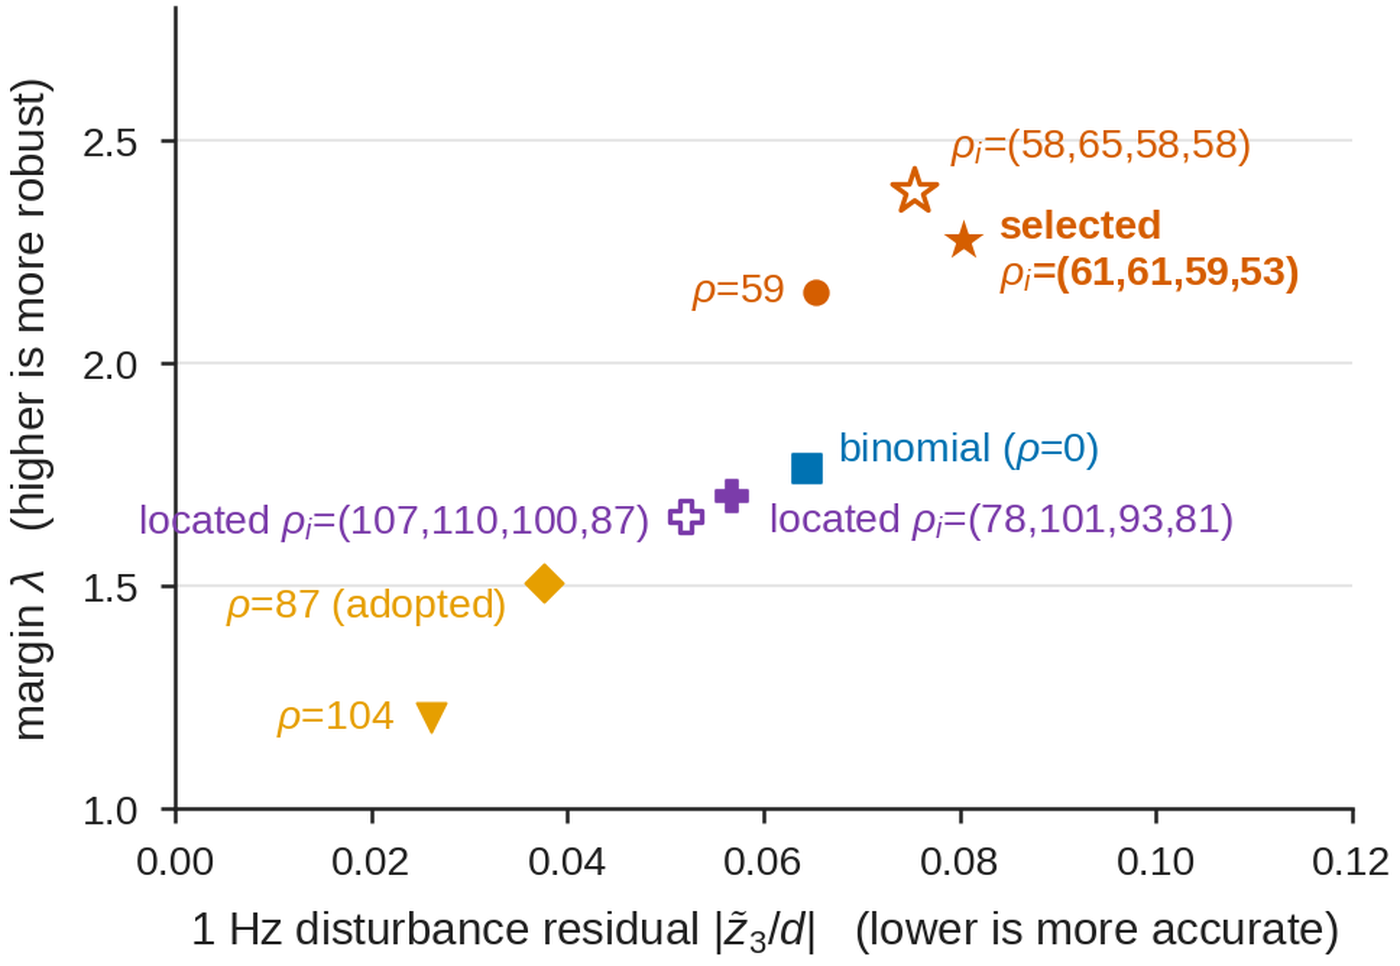
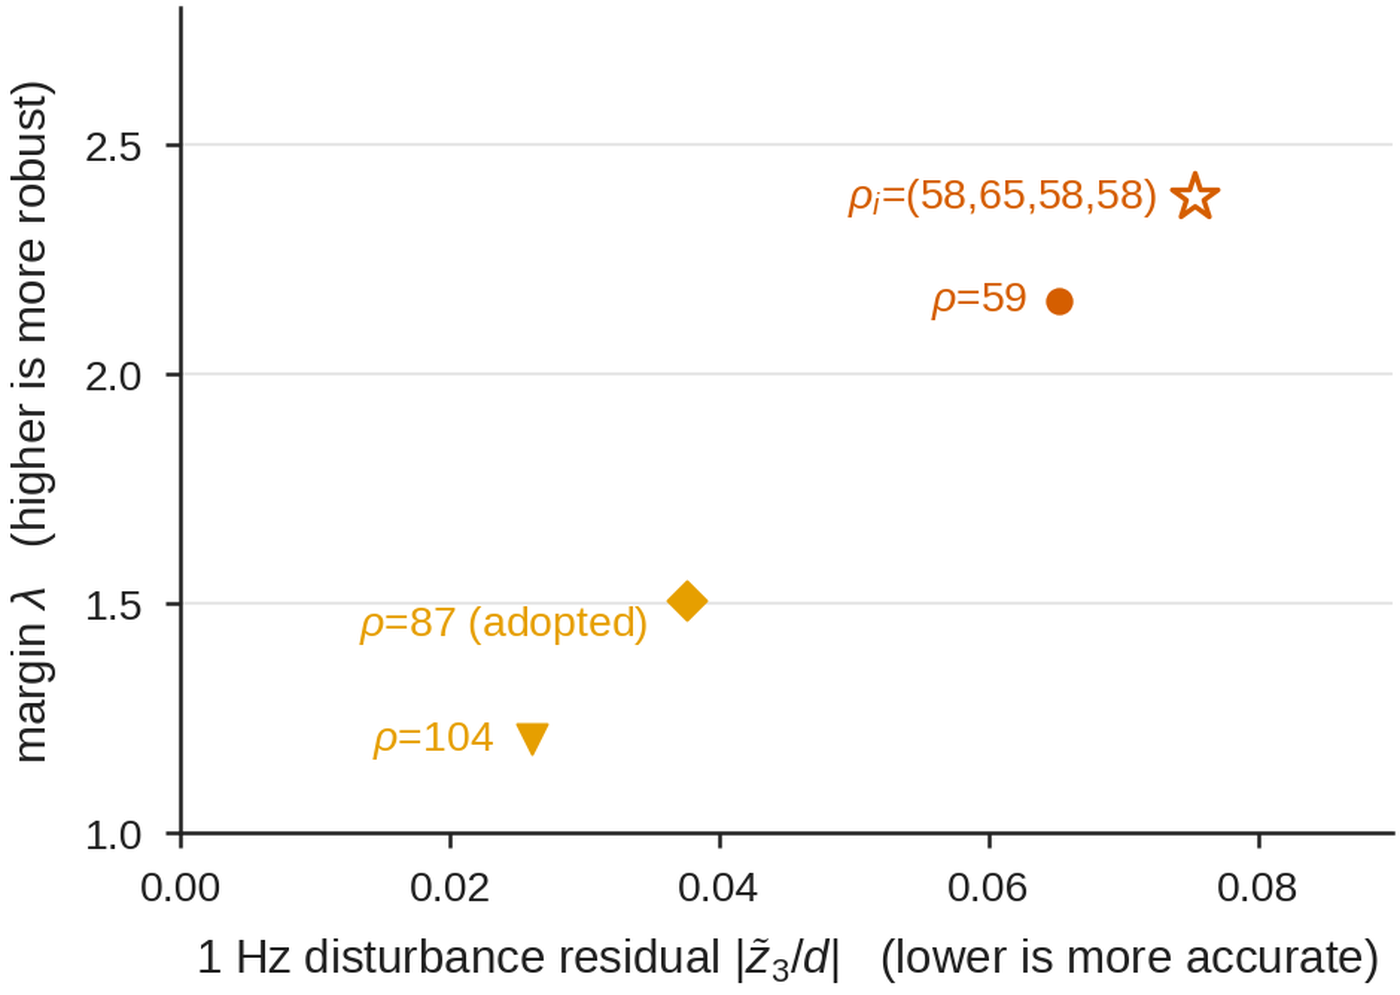
Fig. 2: common values and the second per-order candidate only

diff --git a/index.html b/index.html
@@ -79,7 +79,7 @@
           <figure class="media-card">
             <div class="media-card-bar"><span class="media-name">Margin against accuracy along the rule</span><span class="media-metrics"><span>1 Hz disturbance</span><span><strong>8</strong>-sample loop delay</span></span></div>
             <img src="assets/margin_residual.png" alt="Wrist-loop gain margin versus the 1 Hz disturbance residual along the gain rule with a common rho.">
-            <figcaption>Wrist-loop gain margin λ against the residual of a 1 Hz disturbance along the rule with a common ρ, from the binomial observer with increasing ρ. Up and to the left is better; the production third-order observer lies off scale (residual 0.31, λ = 5.6). The margin peaks near ρ = 35 and has fallen below the binomial value at ρ = 87.</figcaption>
+            <figcaption>Wrist-loop gain margin λ (with the loop delay of the controller) against the residual of a 1 Hz disturbance for the common values ρ = 59, 87 (adopted) and 104 tested on the robot and the per-order setting (58, 65, 58, 58). Up and to the left is better; the production third-order observer lies off scale (residual 0.31, λ = 5.6).</figcaption>
           </figure>
         </div>
       </div>
